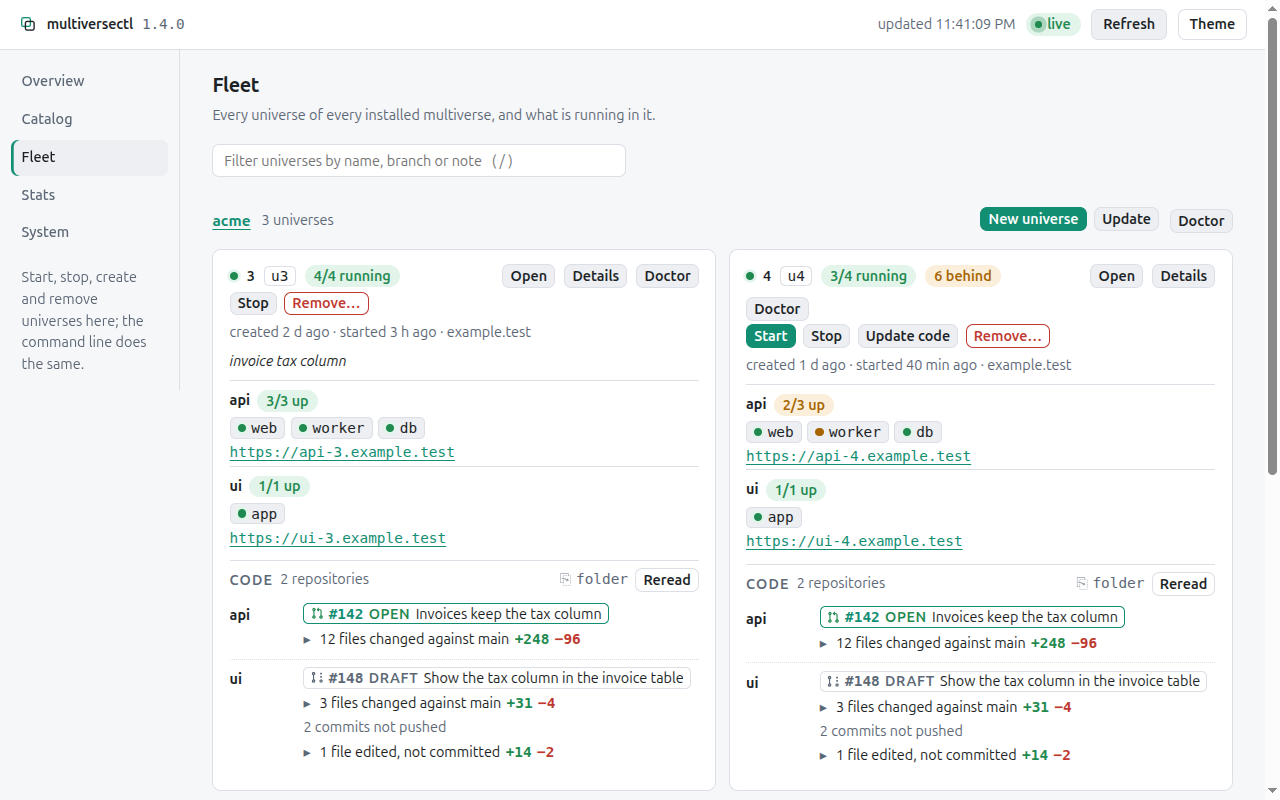
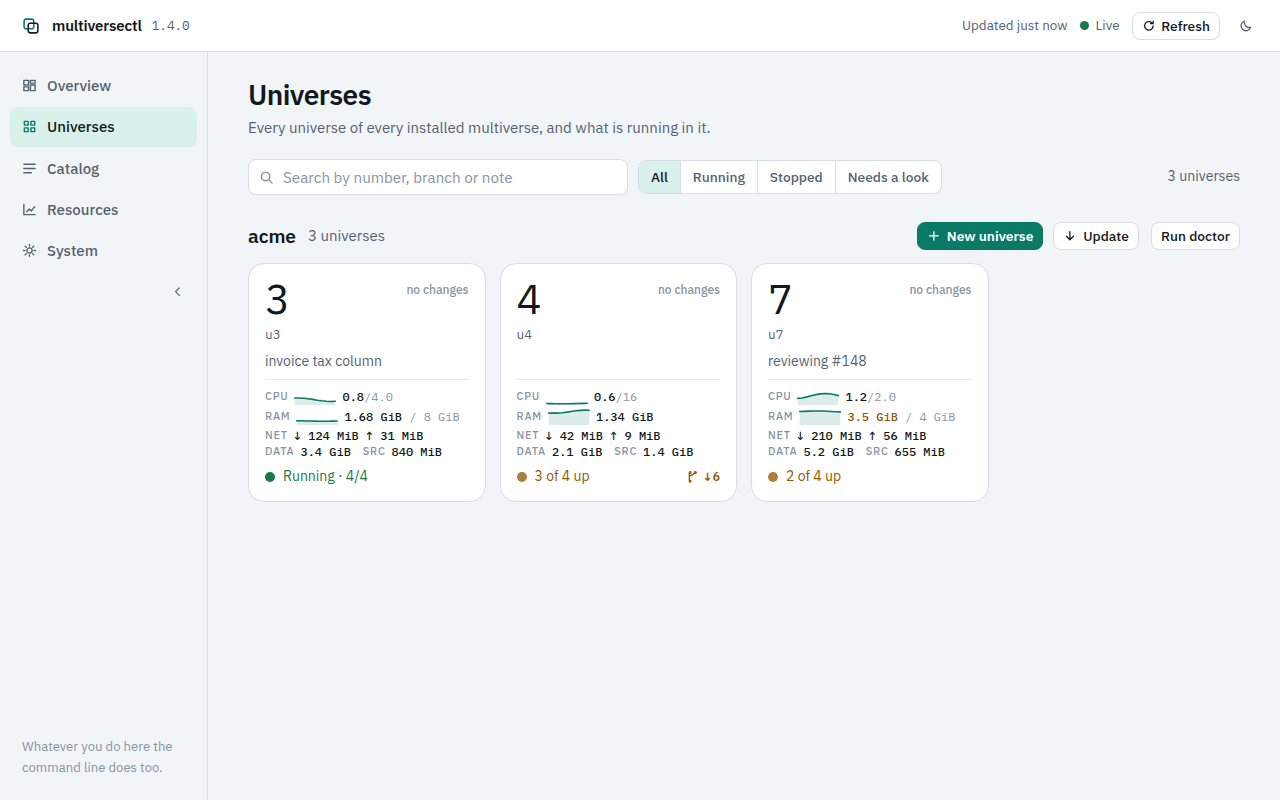
chore: polish the fleet card and retake its screenshots (#116)
- The worktree status sits beside the universe name in a flex row, so a long
  word-name no longer collides with it; it reads "no changes" when clean and
  "N changed" (amber) when a checkout has uncommitted work.
- A universe's cap is clamped to the machine's own cores and memory, so a sum of
  container limits can never show a ceiling larger than the host.
- The fleet screenshots are retaken from the dev UI — now showing each tile's
  live CPU, memory, network and disk — in light and dark, with the figure's alt
  text updated to match.

diff --git a/web/src/app/features/fleet/universe-card.ts b/web/src/app/features/fleet/universe-card.ts
@@ -19,8 +19,14 @@ import { dirtyCheckouts, expectedOf, runState } from './universe-state';
   changeDetection: ChangeDetectionStrategy.OnPush,
   template: `
     <a class="tile" [class.stopped]="state() === 'stopped'" [routerLink]="link()">
-      @if (!edited()) { <span class="clean">no changes</span> }
-      <span class="num" [class.word]="!isNumber()">{{ universe().name }}</span>
+      <span class="head">
+        <span class="num" [class.word]="!isNumber()" [attr.title]="isNumber() ? null : universe().name">{{ universe().name }}</span>
+        @if (edited()) {
+          <span class="wt dirty" [attr.title]="'uncommitted changes in ' + dirty().join(', ')">{{ dirty().length }} changed</span>
+        } @else {
+          <span class="wt">no changes</span>
+        }
+      </span>
       @if (where()) { <span class="where mono" [attr.title]="where()">{{ where() }}</span> }
       @if (universe().note) { <span class="note">{{ universe().note }}</span> }
       <span class="foot">
@@ -73,9 +79,11 @@ import { dirtyCheckouts, expectedOf, runState } from './universe-state';
     .run { display: flex; align-items: center; gap: 8px; font-size: var(--fs-sm); color: var(--muted) }
     .run.ok { color: var(--ok) } .run.warn { color: var(--warn) }
     .dot { width: 10px; height: 10px; flex: none }
-    .clean { position: absolute; top: 14px; right: 16px; font-size: var(--fs-2xs); font-weight: 500; color: var(--faint) }
-    .num { font: 300 var(--fs-hero)/1 var(--sans); letter-spacing: -.045em; font-variant-numeric: tabular-nums; overflow-wrap: anywhere }
-    .num.word { font: 600 var(--fs-xl)/1.2 var(--sans); letter-spacing: -.015em }
+    .head { display: flex; align-items: flex-start; justify-content: space-between; gap: 10px }
+    .wt { flex: none; margin-top: 3px; font-size: var(--fs-2xs); font-weight: 500; color: var(--faint); white-space: nowrap }
+    .wt.dirty { color: var(--warn) }
+    .num { min-width: 0; font: 300 var(--fs-hero)/1 var(--sans); letter-spacing: -.045em; font-variant-numeric: tabular-nums; overflow-wrap: anywhere }
+    .num.word { font: 600 var(--fs-xl)/1.2 var(--sans); letter-spacing: -.015em; display: -webkit-box; -webkit-line-clamp: 2; line-clamp: 2; -webkit-box-orient: vertical; overflow: hidden }
     .behind { margin-left: auto; display: inline-flex; align-items: center; gap: 3px; color: var(--warn);
       font: 600 var(--fs-2xs)/1 var(--sans); font-variant-numeric: tabular-nums }
     .behind mv-icon { font-size: 1.15em }
@@ -115,8 +123,9 @@ export class UniverseCard {
   });
   /** Commits the checkouts are behind what they follow; `sync` brings them forward. */
   protected readonly behind = computed(() => this.universe().behind ?? 0);
-  /** Whether any checkout has uncommitted work. */
-  protected readonly edited = computed(() => dirtyCheckouts(this.universe()).length > 0);
+  /** The checkouts with uncommitted work, and whether there are any. */
+  protected readonly dirty = computed(() => dirtyCheckouts(this.universe()));
+  protected readonly edited = computed(() => this.dirty().length > 0);
   /** The branch it is on: one name when every repository is on the same. */
   protected readonly where = computed(() => {
     const names = [...new Set(Object.values(this.universe().branches ?? {}).filter(Boolean))];

diff --git a/internal/app/pulse_test.go b/internal/app/pulse_test.go
@@ -17,18 +17,23 @@ func TestAggregatePulseSumsUseAndCapsOnlyWhenEveryContainerIsLimited(t *testing.
 		// "mixed": one limited, one not.
 		row("mixed", "mixed-web", 25, 200, 3, 0),
 		row("mixed", "mixed-worker", 75, 300, 0, 0),
+		// "oversub": every container limited, but the limits sum past the machine.
+		row("oversub", "oversub-a", 10, 100, 0, 0),
+		row("oversub", "oversub-b", 10, 100, 0, 0),
 	}
 	caps := map[string]Caps{
 		"capped-web":   {CPUs: 1, Mem: 200},
 		"capped-db":    {CPUs: 2, Mem: 300},
 		"mixed-web":    {CPUs: 1, Mem: 256},
 		"mixed-worker": {}, // no limit
+		"oversub-a":    {CPUs: 5, Mem: 10 << 30},
+		"oversub-b":    {CPUs: 6, Mem: 8 << 30},
 	}
 	host := HostCapacity{Cores: 8, Mem: 1 << 34}
 
 	got := aggregatePulse(rows, caps, host)
-	if len(got) != 2 {
-		t.Fatalf("want 2 universes, got %d", len(got))
+	if len(got) != 3 {
+		t.Fatalf("want 3 universes, got %d", len(got))
 	}
 	byName := map[string]UniversePulse{}
 	for _, p := range got {
@@ -66,5 +71,14 @@ func TestAggregatePulseSumsUseAndCapsOnlyWhenEveryContainerIsLimited(t *testing.
 	}
 	if m.MemCap != 0 {
 		t.Errorf("mixed MemCap = %v, want 0 (unlimited)", m.MemCap)
+	}
+
+	// Every container limited but the sum exceeds the host: the cap is the machine.
+	o := byName["oversub"]
+	if o.CPUCap != 8 {
+		t.Errorf("oversub CPUCap = %v, want 8 (clamped to host cores)", o.CPUCap)
+	}
+	if o.MemCap != float64(host.Mem) {
+		t.Errorf("oversub MemCap = %v, want %v (clamped to host mem)", o.MemCap, float64(host.Mem))
 	}
 }

diff --git a/internal/app/pulse.go b/internal/app/pulse.go
@@ -49,7 +49,8 @@ func (s *Service) ProjectPulse(ctx context.Context) ([]UniversePulse, error) {
 // plain sum; the cap is the sum of the limits, but only while every container
 // has one — a single unlimited container makes the CPU ceiling the machine and
 // the memory ceiling unknowable (zero), since the rest's limits are no honest
-// total to draw against.
+// total to draw against. A sum of limits is capped at the machine's own total,
+// which no configuration can let the universe exceed.
 func aggregatePulse(rows []StatRow, caps map[string]Caps, host HostCapacity) []UniversePulse {
 	type acc struct {
 		p                        UniversePulse
@@ -85,9 +86,13 @@ func aggregatePulse(rows []StatRow, caps map[string]Caps, host HostCapacity) []U
 		a := by[name]
 		if a.cpuUncapped {
 			a.p.CPUCap = float64(host.Cores)
+		} else if host.Cores > 0 && a.p.CPUCap > float64(host.Cores) {
+			a.p.CPUCap = float64(host.Cores)
 		}
 		if a.memUncapped {
 			a.p.MemCap = 0
+		} else if host.Mem > 0 && a.p.MemCap > float64(host.Mem) {
+			a.p.MemCap = float64(host.Mem)
 		}
 		out = append(out, a.p)
 	}
